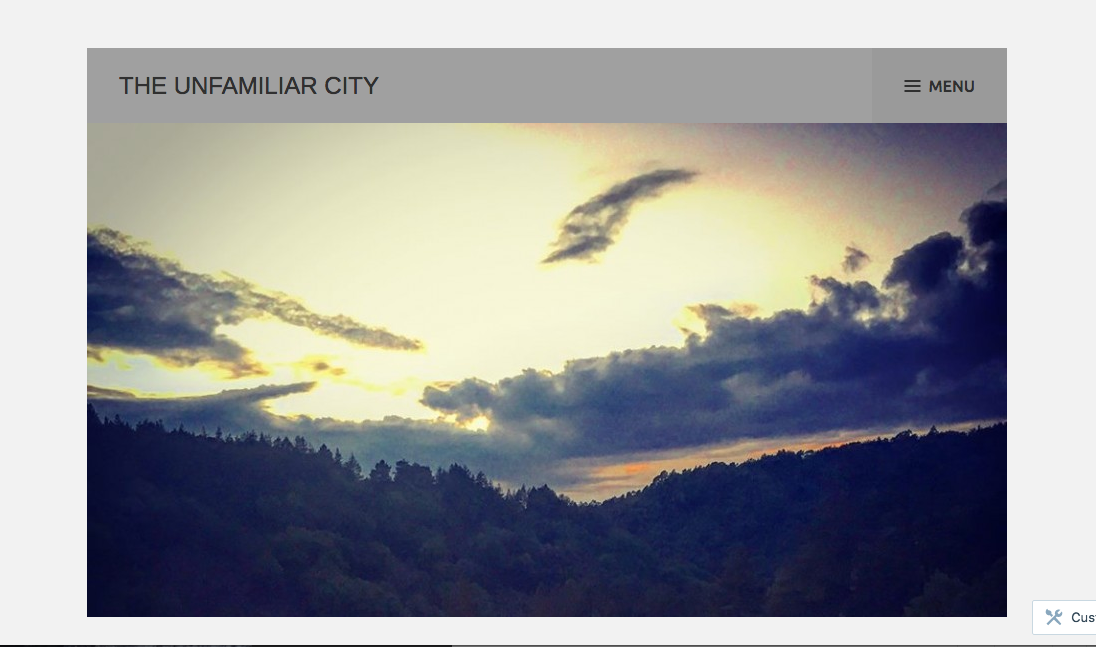
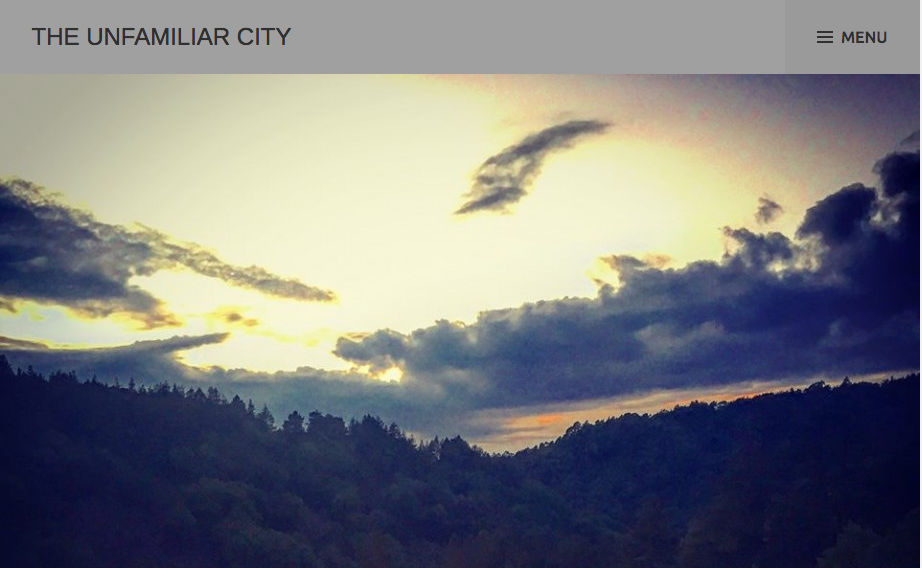
Major fixes to navigation bar

diff --git a/index.html b/index.html
@@ -1,7 +1,5 @@
 <!--text all same color, nav bar one color, background one color
-Next steps: create content for current project (find a screenshot, write a description, make picture a link), create content for past projects(same as current), (find pictures and link pictures to project websites), mobile ready, 
-
-make email open in new window, link to email-->
+Next steps: create content for current project, create content for past projects, (find pictures and link pictures to project websites),-->
     
 
 <!DOCTYPE html>
@@ -9,11 +7,10 @@ make email open in new window, link to email-->
     <head>
         <title>Monica Williams|Professional Portfolio</title>
         <meta name="viewport" content="width=device-width, initial-scale=1">
-        <link rel="stylesheet" type="text/css" href="main.css">
         <link rel="stylesheet" type="text/css" href="style.css">
     </head>
     <body>
-        <div id navdiv>
+        <div id="navdiv">
             <ul id="navigation">
                 <li class="navtabs"> <a href="https://moniarchy.github.io/#welcome">Welcome</a></li>
                 <li class="navtabs"> <a href="https://moniarchy.github.io/#current">What I'm Working On</a></li>
@@ -27,13 +24,23 @@ make email open in new window, link to email-->
         <h1 id= "welcome">Monica Williams</h1>
             <p>  
             </p>
-        <h2 id= "current">What I'm Working On</h2>
-            <p>
-        Lorem ipsum dolor sit amet, consectetur adipiscing elit. Vivamus ornare arcu quis diam sagittis blandit. Nulla elementum pretium tortor quis tempus. Morbi condimentum elementum lectus, quis condimentum lacus suscipit et. Nulla metus nisl, commodo ultrices maximus viverra, eleifend in mi. Aliquam accumsan arcu consequat sapien dapibus, a tincidunt tellus tincidunt. Phasellus quis lacus et nisi bibendum consequat. Nunc aliquet consequat fringilla. Suspendisse potenti. Suspendisse dapibus est laoreet, euismod lacus id, viverra nunc. Sed fringilla, urna id sollicitudin tincidunt, nisl metus maximus libero, porta elementum nisl justo eu diam. Phasellus venenatis auctor vehicula. Suspendisse volutpat non lectus vitae venenatis. Quisque auctor justo quis nisl pretium, et consectetur augue efficitur. Maecenas scelerisque luctus mauris sed tincidunt. Aliquam id scelerisque ante. Mauris ac tortor est. Vestibulum non dui pellentesque, pharetra tellus eu, blandit dolor. Sed ac sodales nulla. Cras justo lectus, congue sit amet lectus vel, ornare egestas augue. Proin vulputate massa ligula, ultrices consequat enim rhoncus vitae. Sed at lorem porta, vehicula turpis id, consequat purus. Maecenas lacinia sit amet elit et tristique. Donec id tortor sed eros varius pellentesque. Ut porta fermentum quam, sit amet aliquet magna vulputate vitae. Aliquam eu magna eget nisl tincidunt sodales id ut lectus. Morbi facilisis purus nisi, in porta tortor lacinia vel. Ut elit sem, posuere sed viverra eget, ultrices ut dui. Nunc non eleifend purus, eget mollis ligula. Lorem ipsum dolor sit amet, consectetur adipiscing elit. Vivamus ornare arcu quis diam sagittis blandit. Nulla elementum pretium tortor quis tempus. Morbi condimentum elementum lectus, quis condimentum lacus suscipit et. Nulla metus nisl, commodo ultrices maximus viverra, eleifend in mi. Aliquam accumsan arcu consequat sapien dapibus, a tincidunt tellus tincidunt. Phasellus quis lacus et nisi bibendum consequat. Nunc aliquet consequat fringilla. Suspendisse potenti. Suspendisse dapibus est laoreet, euismod lacus id, viverra nunc. Sed fringilla, urna id sollicitudin tincidunt, nisl metus maximus libero, porta elementum nisl justo eu diam. Phasellus venenatis auctor vehicula. Suspendisse volutpat non lectus vitae venenatis. Quisque auctor justo quis nisl pretium, et consectetur augue efficitur. Maecenas scelerisque luctus mauris sed tincidunt. Aliquam id scelerisque ante. Mauris ac tortor est. Vestibulum non dui pellentesque, pharetra tellus eu, blandit dolor. Sed ac sodales nulla. Cras justo lectus, congue sit amet lectus vel, ornare egestas augue. Proin vulputate massa ligula, ultrices consequat enim rhoncus vitae. Sed at lorem porta, vehicula turpis id, consequat purus. Maecenas lacinia sit amet elit et tristique. Donec id tortor sed eros varius pellentesque. Ut porta fermentum quam, sit amet aliquet magna vulputate vitae. Aliquam eu magna eget nisl tincidunt sodales id ut lectus. Morbi facilisis purus nisi, in porta tortor lacinia vel. Ut elit sem, posuere sed viverra eget, ultrices ut dui. Nunc non eleifend purus, eget mollis ligula. Duis id ipsum vel est consequat interdum eget nec odio. In ultricies blandit orci vel convallis. Vivamus sagittis felis et viverra interdum. Cras magna risus, scelerisque sit amet augue non, hendrerit mollis elit. Sed eu enim bibendum nisi aliquam tempus ut eget mi. Mauris scelerisque, tellus vitae tristique auctor, orci libero faucibus ipsum, lobortis faucibus eros erat eget dui. In vitae luctus mauris. Integer id elementum urna, non semper nisi. In hac habitasse platea dictumst. Phasellus quis lorem gravida, finibus risus eget, fermentum elit. Aliquam erat nunc, cursus non metus ac, lacinia mollis lectus. Mauris nec tellus lobortis, eleifend enim rhoncus, maximus elit. In hac habitasse platea dictumst. Aliquam et erat ultrices velit varius finibus. Pellentesque vel metus mi. Aliquam nibh justo, blandit et mauris eu, pretium porttitor quam. Aenean at ipsum luctus, tristique augue et, viverra lectus. Vestibulum ultrices leo eget arcu feugiat, quis condimentum nibh dictum. In et diam fringilla, hendrerit justo a, viverra ante. Aliquam odio ligula, feugiat vitae posuere et, consequat quis metus. Lorem ipsum dolor sit amet, consectetur adipiscing elit. Vivamus ornare arcu quis diam sagittis blandit. Nulla elementum pretium tortor quis tempus. Morbi condimentum elementum lectus, quis condimentum lacus suscipit et. Nulla metus nisl, commodo ultrices maximus viverra, eleifend in mi. Aliquam accumsan arcu consequat sapien dapibus, a tincidunt tellus tincidunt. Phasellus quis lacus et nisi bibendum consequat. Nunc aliquet consequat fringilla. Suspendisse potenti. Suspendisse dapibus est laoreet, euismod lacus id, viverra nunc. Sed fringilla, urna id sollicitudin tincidunt, nisl metus maximus libero, porta elementum nisl justo eu diam. Phasellus venenatis auctor vehicula. Suspendisse volutpat non lectus vitae venenatis. Quisque auctor justo quis nisl pretium, et consectetur augue efficitur. Maecenas scelerisque luctus mauris sed tincidunt. Aliquam id scelerisque ante. Mauris ac tortor est. Vestibulum non dui pellentesque, pharetra tellus eu, blandit dolor. Sed ac sodales nulla. Cras justo lectus, congue sit amet lectus vel, ornare egestas augue. Proin vulputate massa ligula, ultrices consequat enim rhoncus vitae. Sed at lorem porta, vehicula turpis id, consequat purus. Maecenas lacinia sit amet elit et tristique. Donec id tortor sed eros varius pellentesque. Ut porta fermentum quam, sit amet aliquet magna vulputate vitae. Aliquam eu magna eget nisl tincidunt sodales id ut lectus. Morbi facilisis purus nisi, in porta tortor lacinia vel. Ut elit sem, posuere sed viverra eget, ultrices ut dui. Nunc non eleifend purus, eget mollis ligula. Duis id ipsum vel est consequat interdum eget nec odio. In ultricies blandit orci vel convallis. Vivamus sagittis felis et viverra interdum. Cras magna risus, scelerisque sit amet augue non, hendrerit mollis elit. Sed eu enim bibendum nisi aliquam tempus ut eget mi. Mauris scelerisque, tellus vitae tristique auctor, orci libero faucibus ipsum, lobortis faucibus eros erat eget dui. In vitae luctus mauris. Integer id elementum urna, non semper nisi. In hac habitasse platea dictumst. Phasellus quis lorem gravida, finibus risus eget, fermentum elit. Aliquam erat nunc, cursus non metus ac, lacinia mollis lectus. Mauris nec tellus lobortis, eleifend enim rhoncus, maximus elit. In hac habitasse platea dictumst. Aliquam et erat ultrices velit varius finibus. Pellentesque vel metus mi. Aliquam nibh justo, blandit et mauris eu, pretium porttitor quam. Aenean at ipsum luctus, tristique augue et, viverra lectus. Vestibulum ultrices leo eget arcu feugiat, quis condimentum nibh dictum. In et diam fringilla, hendrerit justo a, viverra ante. Aliquam odio ligula, feugiat vitae posuere et, consequat quis metus.</p>
-        <h2 id= "done">What I've Already Finished</h2>
-        <p>Lorem ipsum dolor sit amet, consectetur adipiscing elit. Vivamus ornare arcu quis diam sagittis blandit. Nulla elementum pretium tortor quis tempus. Morbi condimentum elementum lectus, quis condimentum lacus suscipit et. Nulla metus nisl, commodo ultrices maximus viverra, eleifend in mi. Aliquam accumsan arcu consequat sapien dapibus, a tincidunt tellus tincidunt. Phasellus quis lacus et nisi bibendum consequat. Nunc aliquet consequat fringilla. Suspendisse potenti. Suspendisse dapibus est laoreet, euismod lacus id, viverra nunc. Sed fringilla, urna id sollicitudin tincidunt, nisl metus maximus libero, porta elementum nisl justo eu diam. Phasellus venenatis auctor vehicula. Suspendisse volutpat non lectus vitae venenatis. Quisque auctor justo quis nisl pretium, et consectetur augue efficitur. Maecenas scelerisque luctus mauris sed tincidunt. Aliquam id scelerisque ante. Mauris ac tortor est. Vestibulum non dui pellentesque, pharetra tellus eu, blandit dolor. Sed ac sodales nulla. Cras justo lectus, congue sit amet lectus vel, ornare egestas augue. Proin vulputate massa ligula, ultrices consequat enim rhoncus vitae. Sed at lorem porta, vehicula turpis id, consequat purus. Maecenas lacinia sit amet elit et tristique. Donec id tortor sed eros varius pellentesque. Ut porta fermentum quam, sit amet aliquet magna vulputate vitae. Aliquam eu magna eget nisl tincidunt sodales id ut lectus. Morbi facilisis purus nisi, in porta tortor lacinia vel. Ut elit sem, posuere sed viverra eget, ultrices ut dui. Nunc non eleifend purus, eget mollis ligula. Lorem ipsum dolor sit amet, consectetur adipiscing elit. Vivamus ornare arcu quis diam sagittis blandit. Nulla elementum pretium tortor quis tempus. Morbi condimentum elementum lectus, quis condimentum lacus suscipit et. Nulla metus nisl, commodo ultrices maximus viverra, eleifend in mi. Aliquam accumsan arcu consequat sapien dapibus, a tincidunt tellus tincidunt. Phasellus quis lacus et nisi bibendum consequat. Nunc aliquet consequat fringilla. Suspendisse potenti. Suspendisse dapibus est laoreet, euismod lacus id, viverra nunc. Sed fringilla, urna id sollicitudin tincidunt, nisl metus maximus libero, porta elementum nisl justo eu diam. Phasellus venenatis auctor vehicula. Suspendisse volutpat non lectus vitae venenatis. Quisque auctor justo quis nisl pretium, et consectetur augue efficitur. Maecenas scelerisque luctus mauris sed tincidunt. Aliquam id scelerisque ante. Mauris ac tortor est. Vestibulum non dui pellentesque, pharetra tellus eu, blandit dolor. Sed ac sodales nulla. Cras justo lectus, congue sit amet lectus vel, ornare egestas augue. Proin vulputate massa ligula, ultrices consequat enim rhoncus vitae. Sed at lorem porta, vehicula turpis id, consequat purus. Maecenas lacinia sit amet elit et tristique. Donec id tortor sed eros varius pellentesque. Ut porta fermentum quam, sit amet aliquet magna vulputate vitae. Aliquam eu magna eget nisl tincidunt sodales id ut lectus. Morbi facilisis purus nisi, in porta tortor lacinia vel. Ut elit sem, posuere sed viverra eget, ultrices ut dui. Nunc non eleifend purus, eget mollis ligula. Duis id ipsum vel est consequat interdum eget nec odio. In ultricies blandit orci vel convallis. Vivamus sagittis felis et viverra interdum. Cras magna risus, scelerisque sit amet augue non, hendrerit mollis elit. Sed eu enim bibendum nisi aliquam tempus ut eget mi. Mauris scelerisque, tellus vitae tristique auctor, orci libero faucibus ipsum, lobortis faucibus eros erat eget dui. In vitae luctus mauris. Integer id elementum urna, non semper nisi. In hac habitasse platea dictumst. Phasellus quis lorem gravida, finibus risus eget, fermentum elit. Aliquam erat nunc, cursus non metus ac, lacinia mollis lectus. Mauris nec tellus lobortis, eleifend enim rhoncus, maximus elit. In hac habitasse platea dictumst. Aliquam et erat ultrices velit varius finibus. Pellentesque vel metus mi. Aliquam nibh justo, blandit et mauris eu, pretium porttitor quam. Aenean at ipsum luctus, tristique augue et, viverra lectus. Vestibulum ultrices leo eget arcu feugiat, quis condimentum nibh dictum. In et diam fringilla, hendrerit justo a, viverra ante. Aliquam odio ligula, feugiat vitae posuere et, consequat quis metus. Lorem ipsum dolor sit amet, consectetur adipiscing elit. Vivamus ornare arcu quis diam sagittis blandit. Nulla elementum pretium tortor quis tempus. Morbi condimentum elementum lectus, quis condimentum lacus suscipit et. Nulla metus nisl, commodo ultrices maximus viverra, eleifend in mi. Aliquam accumsan arcu consequat sapien dapibus, a tincidunt tellus tincidunt. Phasellus quis lacus et nisi bibendum consequat. Nunc aliquet consequat fringilla. Suspendisse potenti. Suspendisse dapibus est laoreet, euismod lacus id, viverra nunc. Sed fringilla, urna id sollicitudin tincidunt, nisl metus maximus libero, porta elementum nisl justo eu diam. Phasellus venenatis auctor vehicula. Suspendisse volutpat non lectus vitae venenatis. Quisque auctor justo quis nisl pretium, et consectetur augue efficitur. Maecenas scelerisque luctus mauris sed tincidunt. Aliquam id scelerisque ante. Mauris ac tortor est. Vestibulum non dui pellentesque, pharetra tellus eu, blandit dolor. Sed ac sodales nulla. Cras justo lectus, congue sit amet lectus vel, ornare egestas augue. Proin vulputate massa ligula, ultrices consequat enim rhoncus vitae. Sed at lorem porta, vehicula turpis id, consequat purus. Maecenas lacinia sit amet elit et tristique. Donec id tortor sed eros varius pellentesque. Ut porta fermentum quam, sit amet aliquet magna vulputate vitae. Aliquam eu magna eget nisl tincidunt sodales id ut lectus. Morbi facilisis purus nisi, in porta tortor lacinia vel. Ut elit sem, posuere sed viverra eget, ultrices ut dui. Nunc non eleifend purus, eget mollis ligula. Duis id ipsum vel est consequat interdum eget nec odio. In ultricies blandit orci vel convallis. Vivamus sagittis felis et viverra interdum. Cras magna risus, scelerisque sit amet augue non, hendrerit mollis elit. Sed eu enim bibendum nisi aliquam tempus ut eget mi. Mauris scelerisque, tellus vitae tristique auctor, orci libero faucibus ipsum, lobortis faucibus eros erat eget dui. In vitae luctus mauris. Integer id elementum urna, non semper nisi. In hac habitasse platea dictumst. Phasellus quis lorem gravida, finibus risus eget, fermentum elit. Aliquam erat nunc, cursus non metus ac, lacinia mollis lectus. Mauris nec tellus lobortis, eleifend enim rhoncus, maximus elit. In hac habitasse platea dictumst. Aliquam et erat ultrices velit varius finibus. Pellentesque vel metus mi. Aliquam nibh justo, blandit et mauris eu, pretium porttitor quam. Aenean at ipsum luctus, tristique augue et, viverra lectus. Vestibulum ultrices leo eget arcu feugiat, quis condimentum nibh dictum. In et diam fringilla, hendrerit justo a, viverra ante. Aliquam odio ligula, feugiat vitae posuere et, consequat quis metus.</p>
+        <h2 id= "currentheading">What I'm Working On</h2>
+        
+        <div id="unfamiliarcitypicdiv">
+            <div class="center-content">
+                <a href="http://www.theunfamiliarcity.wordpress.com">
+                    <img src="The%20Unfamiliar%20City%20Homepage.png" id="unfamiliarcitypic" />
+                </a>
+            </div>
+            <p id= "currentparagraph">
+        The Unfamiliar City is a catalogue of the beautiful natural spots of the Bay Area. Our YouTube account shows videos of the trail and includes our tips and inside knowledge, our Facebook page connects the community together and posts and shares events having to do with our natural surroundings, and our blog documents the science behind the animals, geography, and flora that we encounter on our journies.
+            </p>
+        </div>
+            
+        <h2 id= "doneheading">What I've Already Finished</h2>
+        <p id="doneparagraph">Lorem ipsum dolor sit amet, consectetur adipiscing elit. Vivamus ornare arcu quis diam sagittis blandit. Nulla elementum pretium tortor quis tempus. Morbi condimentum elementum lectus, quis condimentum lacus suscipit et. Nulla metus nisl, commodo ultrices maximus viverra, eleifend in mi. Aliquam accumsan arcu consequat sapien dapibus, a tincidunt tellus tincidunt. Phasellus quis lacus et nisi bibendum consequat. Nunc aliquet consequat fringilla. Suspendisse potenti. Suspendisse dapibus est laoreet, euismod lacus id, viverra nunc. Sed fringilla, urna id sollicitudin tincidunt, nisl metus maximus libero, porta elementum nisl justo eu diam. Phasellus venenatis auctor vehicula. Suspendisse volutpat non lectus vitae venenatis. Quisque auctor justo quis nisl pretium, et consectetur augue efficitur. Maecenas scelerisque luctus mauris sed tincidunt. Aliquam id scelerisque ante. Mauris ac tortor est. Vestibulum non dui pellentesque, pharetra tellus eu, blandit dolor. Sed ac sodales nulla. Cras justo lectus, congue sit amet lectus vel, ornare egestas augue. Proin vulputate massa ligula, ultrices consequat enim rhoncus vitae. Sed at lorem porta, vehicula turpis id, consequat purus. Maecenas lacinia sit amet elit et tristique. Donec id tortor sed eros varius pellentesque. Ut porta fermentum quam, sit amet aliquet magna vulputate vitae. Aliquam eu magna eget nisl tincidunt sodales id ut lectus. Morbi facilisis purus nisi, in porta tortor lacinia vel. Ut elit sem, posuere sed viverra eget, ultrices ut dui. Nunc non eleifend purus, eget mollis ligula. Lorem ipsum dolor sit amet, consectetur adipiscing elit. Vivamus ornare arcu quis diam sagittis blandit. Nulla elementum pretium tortor quis tempus. Morbi condimentum elementum lectus, quis condimentum lacus suscipit et. Nulla metus nisl, commodo ultrices maximus viverra, eleifend in mi. Aliquam accumsan arcu consequat sapien dapibus, a tincidunt tellus tincidunt. Phasellus quis lacus et nisi bibendum consequat. Nunc aliquet consequat fringilla. Suspendisse potenti. Suspendisse dapibus est laoreet, euismod lacus id, viverra nunc. Sed fringilla, urna id sollicitudin tincidunt, nisl metus maximus libero, porta elementum nisl justo eu diam. Phasellus venenatis auctor vehicula. Suspendisse volutpat non lectus vitae venenatis. Quisque auctor justo quis nisl pretium, et consectetur augue efficitur. Maecenas scelerisque luctus mauris sed tincidunt. Aliquam id scelerisque ante. Mauris ac tortor est. Vestibulum non dui pellentesque, pharetra tellus eu, blandit dolor. Sed ac sodales nulla. Cras justo lectus, congue sit amet lectus vel, ornare egestas augue. Proin vulputate massa ligula, ultrices consequat enim rhoncus vitae. Sed at lorem porta, vehicula turpis id, consequat purus. Maecenas lacinia sit amet elit et tristique. Donec id tortor sed eros varius pellentesque. Ut porta fermentum quam, sit amet aliquet magna vulputate vitae. Aliquam eu magna eget nisl tincidunt sodales id ut lectus. Morbi facilisis purus nisi, in porta tortor lacinia vel. Ut elit sem, posuere sed viverra eget, ultrices ut dui. Nunc non eleifend purus, eget mollis ligula. Duis id ipsum vel est consequat interdum eget nec odio. In ultricies blandit orci vel convallis. Vivamus sagittis felis et viverra interdum. Cras magna risus, scelerisque sit amet augue non, hendrerit mollis elit. Sed eu enim bibendum nisi aliquam tempus ut eget mi. Mauris scelerisque, tellus vitae tristique auctor, orci libero faucibus ipsum, lobortis faucibus eros erat eget dui. In vitae luctus mauris. Integer id elementum urna, non semper nisi. In hac habitasse platea dictumst. Phasellus quis lorem gravida, finibus risus eget, fermentum elit. Aliquam erat nunc, cursus non metus ac, lacinia mollis lectus. Mauris nec tellus lobortis, eleifend enim rhoncus, maximus elit. In hac habitasse platea dictumst. Aliquam et erat ultrices velit varius finibus. Pellentesque vel metus mi. Aliquam nibh justo, blandit et mauris eu, pretium porttitor quam. Aenean at ipsum luctus, tristique augue et, viverra lectus. Vestibulum ultrices leo eget arcu feugiat, quis condimentum nibh dictum. In et diam fringilla, hendrerit justo a, viverra ante. Aliquam odio ligula, feugiat vitae posuere et, consequat quis metus. Lorem ipsum dolor sit amet, consectetur adipiscing elit. Vivamus ornare arcu quis diam sagittis blandit. Nulla elementum pretium tortor quis tempus. Morbi condimentum elementum lectus, quis condimentum lacus suscipit et. Nulla metus nisl, commodo ultrices maximus viverra, eleifend in mi. Aliquam accumsan arcu consequat sapien dapibus, a tincidunt tellus tincidunt. Phasellus quis lacus et nisi bibendum consequat. Nunc aliquet consequat fringilla. Suspendisse potenti. Suspendisse dapibus est laoreet, euismod lacus id, viverra nunc. Sed fringilla, urna id sollicitudin tincidunt, nisl metus maximus libero, porta elementum nisl justo eu diam. Phasellus venenatis auctor vehicula. Suspendisse volutpat non lectus vitae venenatis. Quisque auctor justo quis nisl pretium, et consectetur augue efficitur. Maecenas scelerisque luctus mauris sed tincidunt. Aliquam id scelerisque ante. Mauris ac tortor est. Vestibulum non dui pellentesque, pharetra tellus eu, blandit dolor. Sed ac sodales nulla. Cras justo lectus, congue sit amet lectus vel, ornare egestas augue. Proin vulputate massa ligula, ultrices consequat enim rhoncus vitae. Sed at lorem porta, vehicula turpis id, consequat purus. Maecenas lacinia sit amet elit et tristique. Donec id tortor sed eros varius pellentesque. Ut porta fermentum quam, sit amet aliquet magna vulputate vitae. Aliquam eu magna eget nisl tincidunt sodales id ut lectus. Morbi facilisis purus nisi, in porta tortor lacinia vel. Ut elit sem, posuere sed viverra eget, ultrices ut dui. Nunc non eleifend purus, eget mollis ligula. Duis id ipsum vel est consequat interdum eget nec odio. In ultricies blandit orci vel convallis. Vivamus sagittis felis et viverra interdum. Cras magna risus, scelerisque sit amet augue non, hendrerit mollis elit. Sed eu enim bibendum nisi aliquam tempus ut eget mi. Mauris scelerisque, tellus vitae tristique auctor, orci libero faucibus ipsum, lobortis faucibus eros erat eget dui. In vitae luctus mauris. Integer id elementum urna, non semper nisi. In hac habitasse platea dictumst. Phasellus quis lorem gravida, finibus risus eget, fermentum elit. Aliquam erat nunc, cursus non metus ac, lacinia mollis lectus. Mauris nec tellus lobortis, eleifend enim rhoncus, maximus elit. In hac habitasse platea dictumst. Aliquam et erat ultrices velit varius finibus. Pellentesque vel metus mi. Aliquam nibh justo, blandit et mauris eu, pretium porttitor quam. Aenean at ipsum luctus, tristique augue et, viverra lectus. Vestibulum ultrices leo eget arcu feugiat, quis condimentum nibh dictum. In et diam fringilla, hendrerit justo a, viverra ante. Aliquam odio ligula, feugiat vitae posuere et, consequat quis metus.</p>
         <h2 id= "contact">Contact Me</h2>
-        <ul>
+        <ul id="contactlist">
             <li> (510)507-5034</li>
             <li><a href="mailto:monicaestellaw@gmail.com">monicaestellaw@gmail.com</a>  </li>
         </ul>

diff --git a/style.css b/style.css
@@ -1,57 +1,27 @@
-body {
-    background-color: #892E61;
-    color: #CD89AF;
-    font-family: Arial, Helvetica, sans-serif;
-    min-width: 500px;
-}
-
-/* extra small */
-@media (max-width: 767px) {
-    body{
-        background-color: red;
-    }
-}
-
-/* small */
-@media (min-width: 768px) {
-    body{
-        background-color: orange;
-    }
-}
-
-/* medium */
-@media (min-width: 992px) {
-    body{
-        background-color: yellow;
-    }
-    #navigation {
-        position: fixed;
-        top: 0;
-        left: 0;
-        right: 0; 
-    }
-}
-
-/* large */
-@media (min-width: 1200px) {
-    body{
-        background-color: green;
-    }
-}
-
-
+html, body{
+    min-width: 435px;
+}   
 #navigation {
+    position: fixed;
     color: #CD89AF;
     list-style-type: none;
     font-size: 16px;
     background-color: #450027;
-    
+    top: 0;
+    left: 0;
+    right: 0;
     margin: 0;
-    
-    }
-
+    height: 80px;
+    text-align: center;
+    overflow: hidden;
+    transition: top 200ms;
+}
+body {
+    background-color: #892E61;
+    color: #CD89AF;
+    font-family: Arial, Helvetica, sans-serif;
+}
 #navdiv {
-    
 }
 .navtabs {
     display: inline-block;
@@ -61,9 +31,6 @@ body {
     font-size: 20px;
     text-align: justify;
     
-}
-a:hover {
-    background-color: #E1B4CD;    
 }
 a {
     color: #CD89AF;
@@ -75,11 +42,10 @@ a {
     vertical-align: text-bottom;
     top: 50px;
     left: 450px;
-    border-radius: 200px;
+    border-radius: 100px;
     text-align: center;
 }
 #picdiv {
-    padding-top: 200px;
     text-align: center;
 }
 
@@ -90,3 +56,62 @@ a {
     text-align: center;
     margin-top: 0px;
 }
+#unfamiliarcitypicdiv {
+    
+}
+#unfamiliarcitypic {
+    width: 400px;
+    height: 300px;
+}
+#currentparagraph {
+    
+}
+#doneparagraph {
+    
+}
+#contactlist {
+    list-style-type: none;
+}
+
+.center-content{
+    text-align: center;
+}
+
+@media (max-width: 767px) {
+    #navigation {
+        position: static;
+        height: auto;
+        margin: -8px;
+    }
+    #navigation {
+        height: auto;
+        padding-left: 0;
+    }
+    #navigation li {
+        display: block;
+        white-space: nowrap;
+    }
+    #picdiv {
+        padding-top: 50px;
+    }
+}
+@media (min-width: 768px) {
+    #picdiv {
+        padding-top: 100px;
+    }
+}
+@media (min-width: 992px) {
+    
+}
+@media (min-width: 1200px) {
+    #navigation {
+        top: -70px;
+    }
+    #navigation:hover {
+        top: 0;
+    }
+    #picdiv {
+        padding-top: 50px;
+    }
+}
+ 
